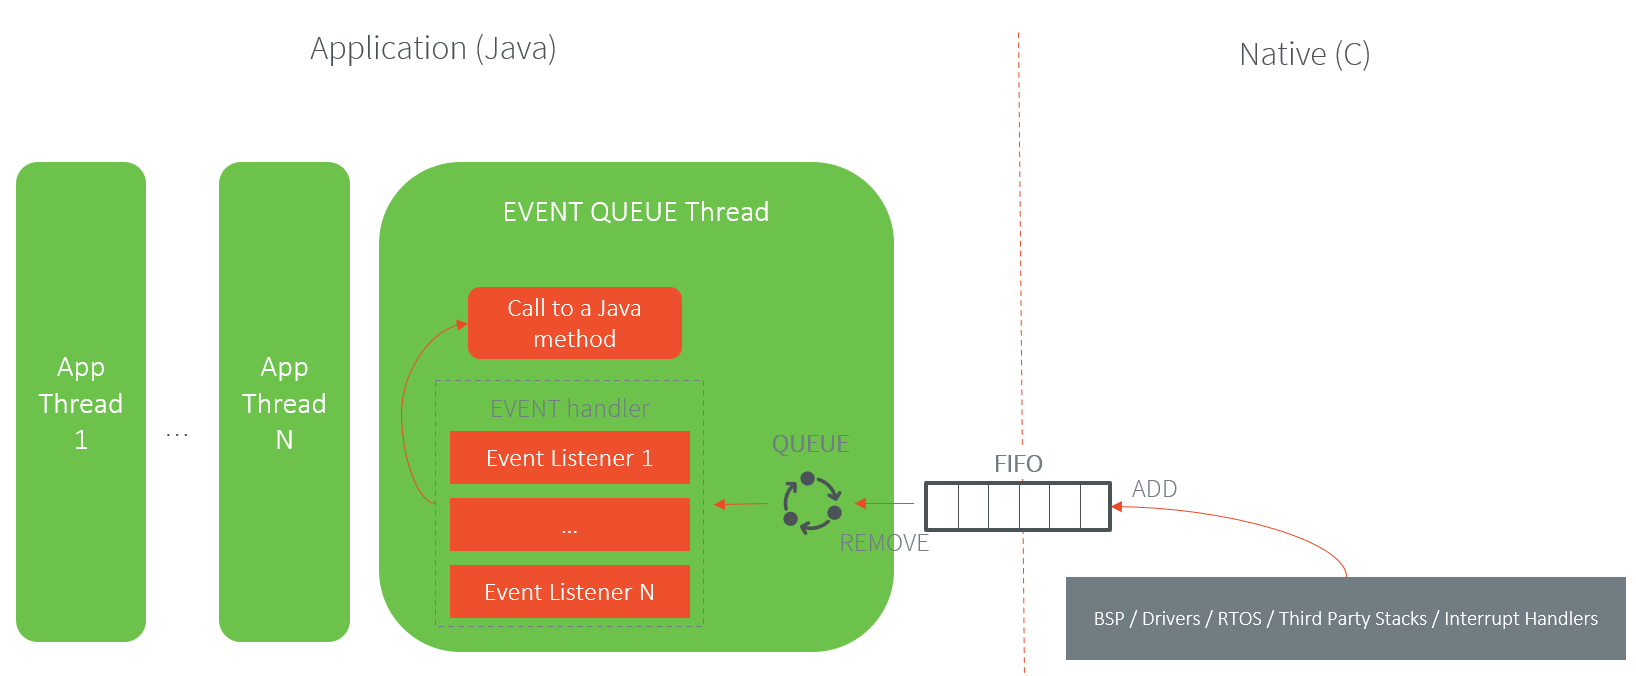
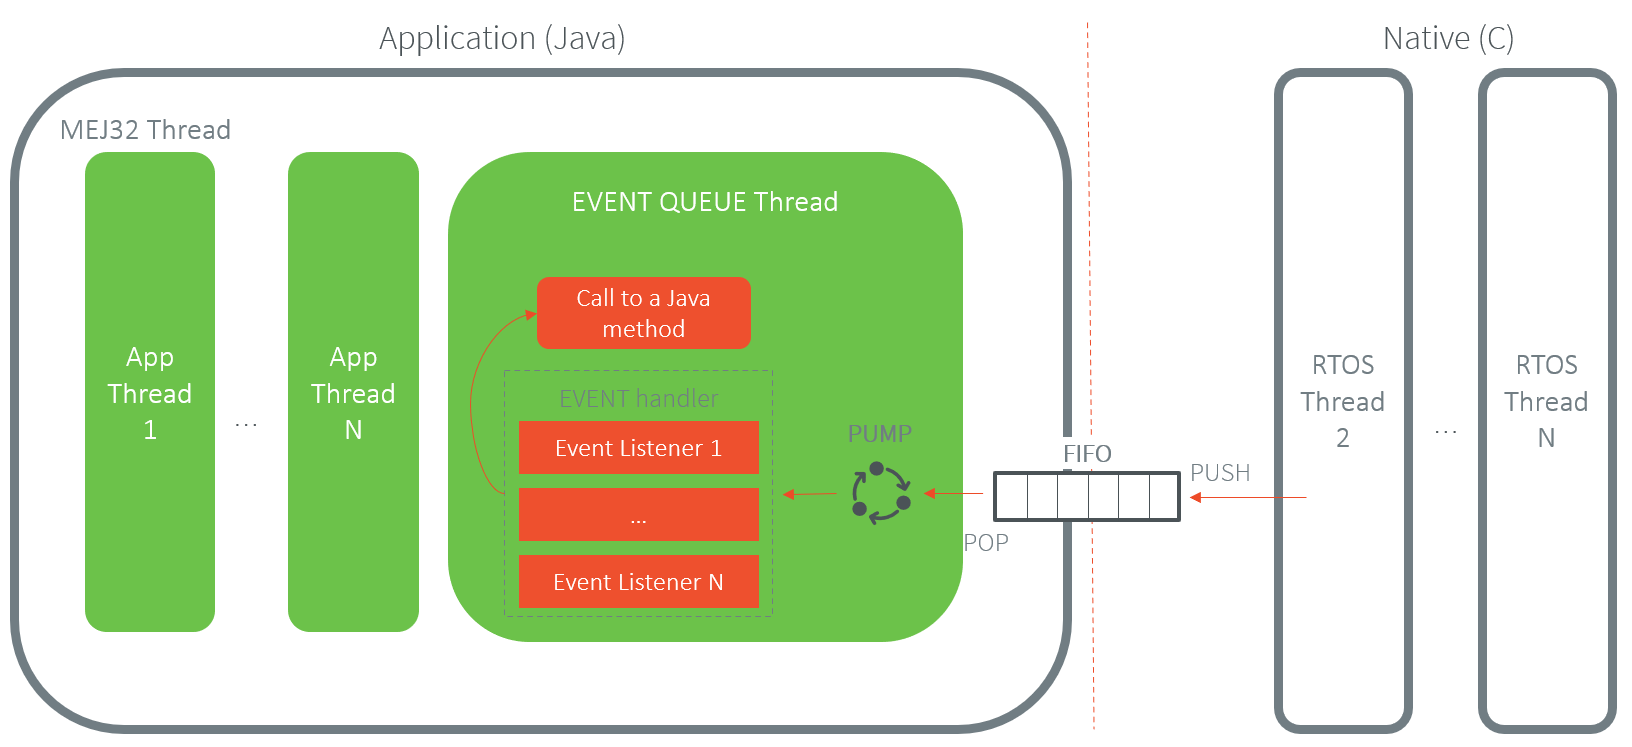
Update event diagrams

diff --git a/VEEPortingGuide/eventQueue.rst b/VEEPortingGuide/eventQueue.rst
@@ -31,7 +31,7 @@ A FIFO mechanism is implemented on the native side and is system specific. The u
 
 Event notifications are handled using event listeners (Observer design pattern). The application code has to register event listeners to be notified when new events are coming.
 
-Then the Event Queue thread automatically retrieves new events pushed in the FIFO and notifies the event listeners. 
+Then the Event Pump automatically retrieves new events pushed in the FIFO and notifies the event listeners. 
 
 Architecture
 ------------
@@ -47,14 +47,6 @@ The Event Queue Foundation Library uses a dedicated Java thread to forward and p
 
 
 Events reading operations are done using the SNI mechanism. Event Queue Java thread is suspended when the events FIFO is empty and resumed when a new event is sent.
-
-.. figure:: images/event-queue-synchronization.png
-   :alt: Event Queue Task Synchronization
-   :align: center
-   :scale: 65%
-
-   Event Queue Task Synchronization
-
 
 Event format
 ------------
